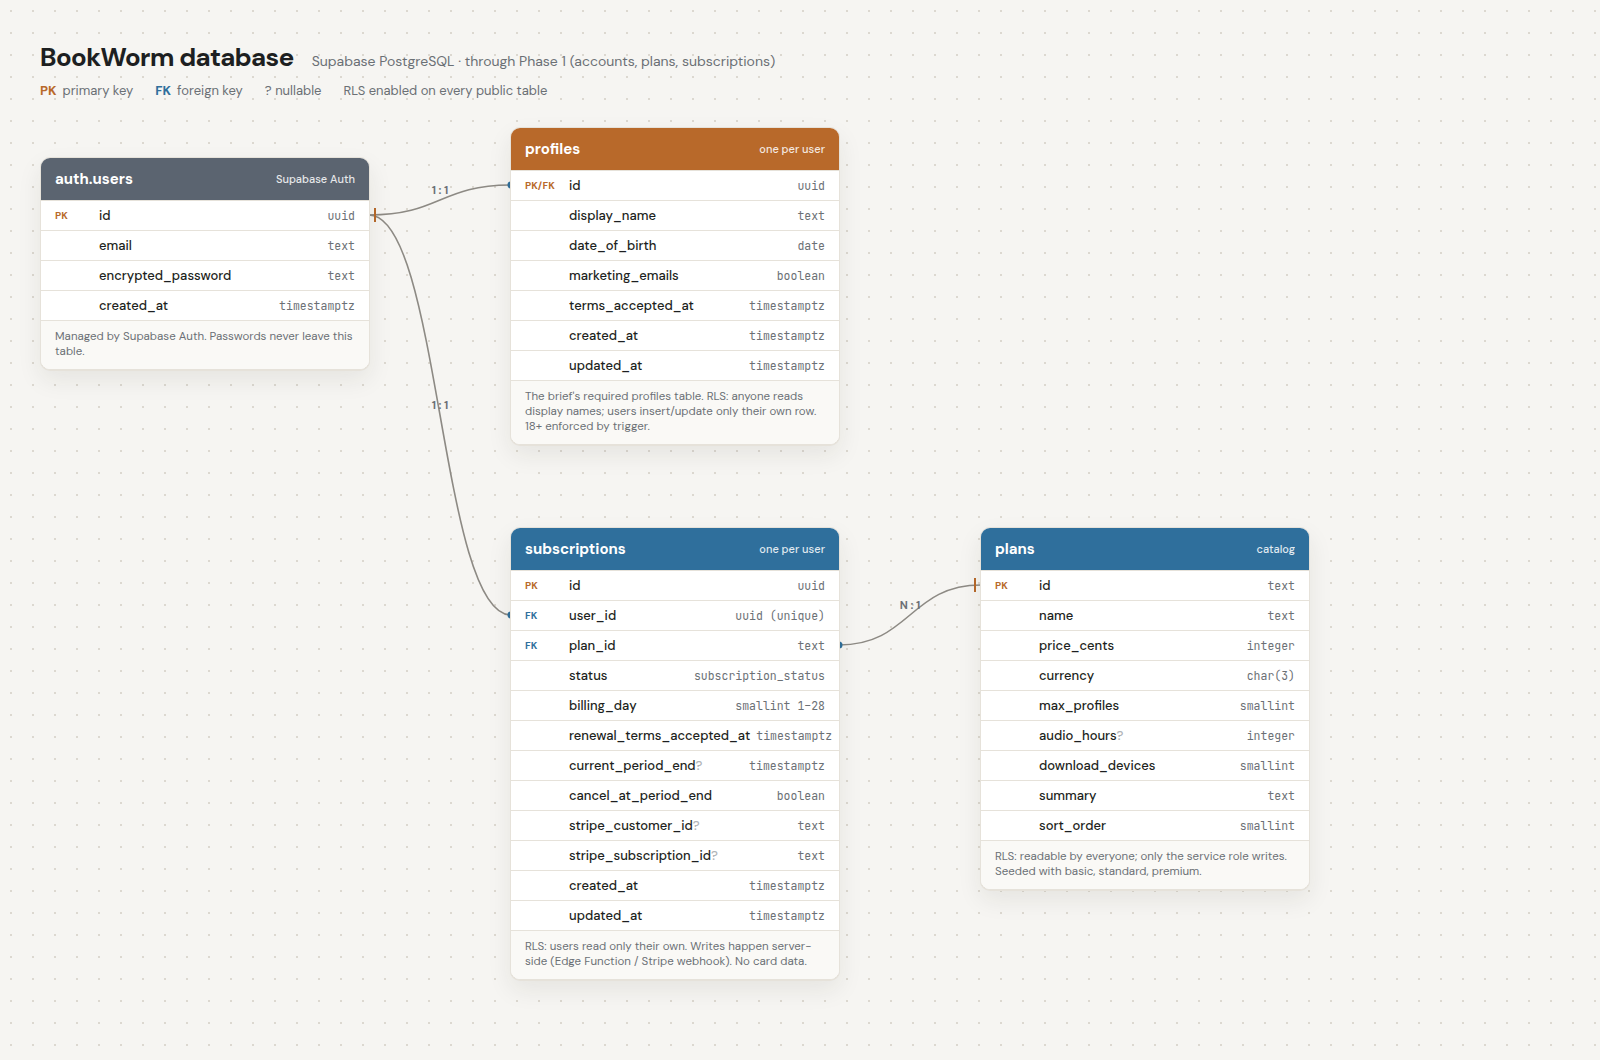
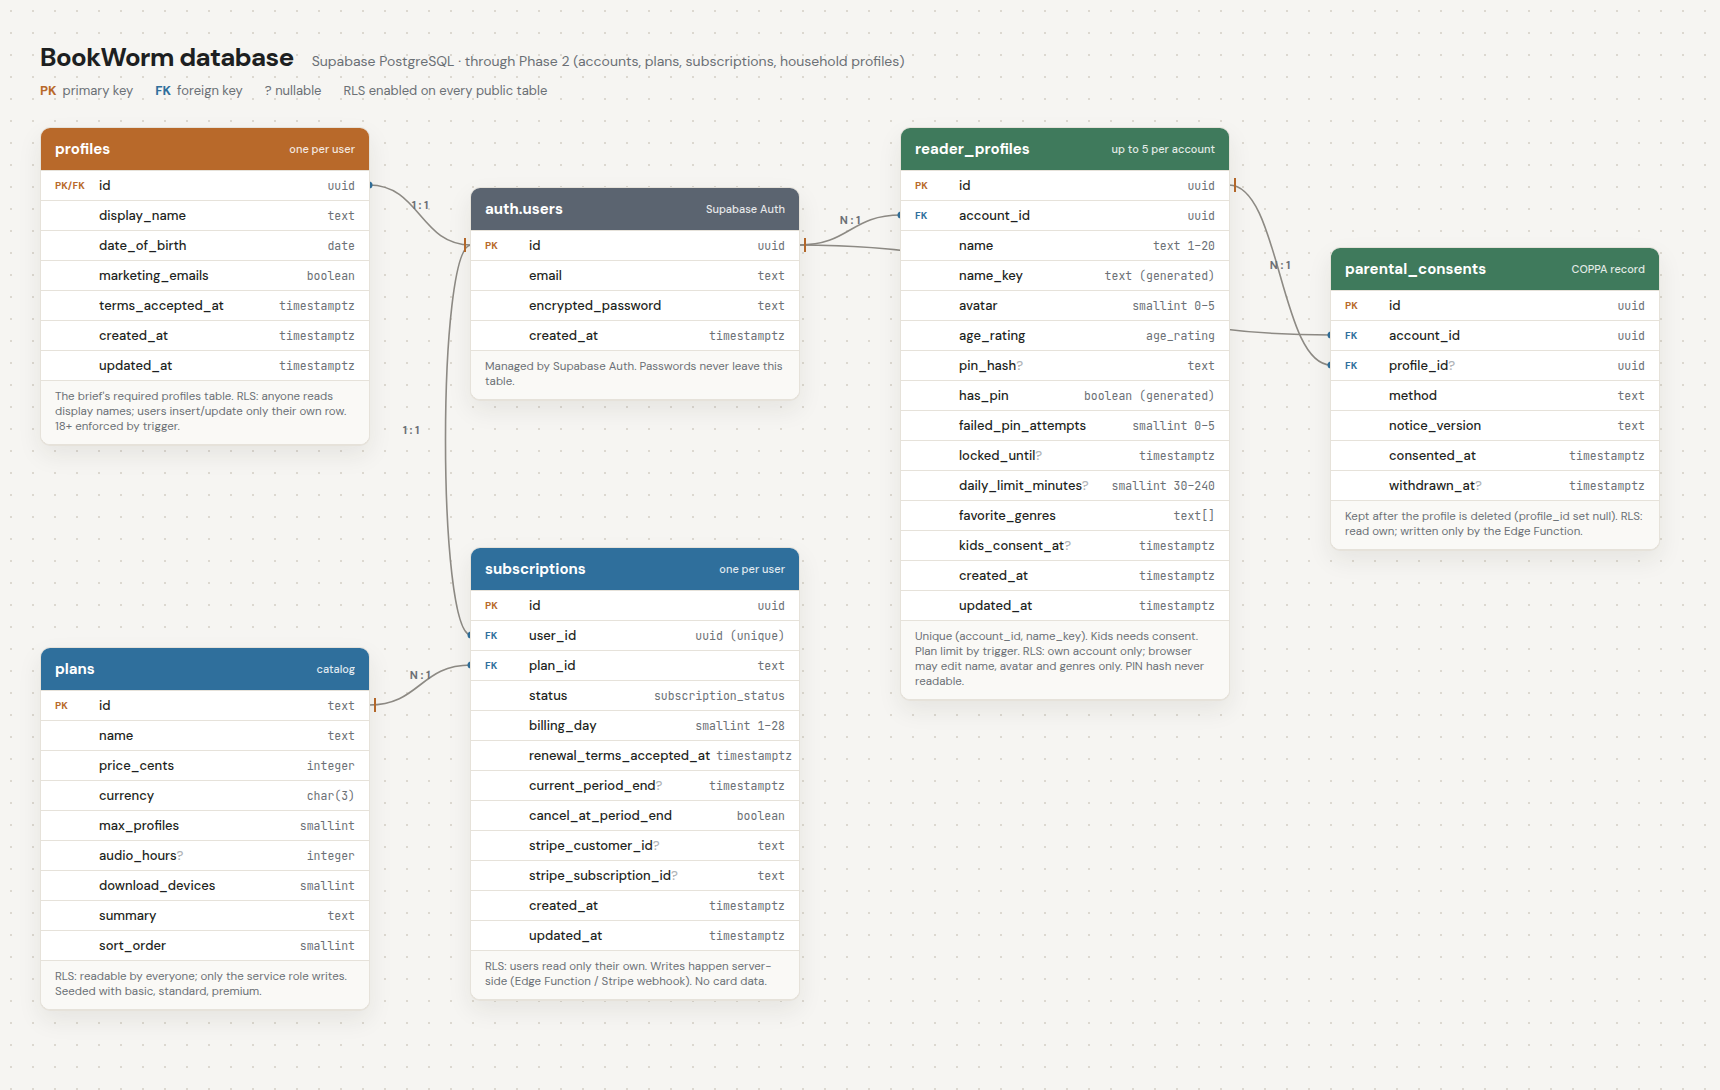
Schema and ERD: household reader profiles and parental consents
Adds reader_profiles (unique names per account, hashed PIN, lockout,
daily limit, favorite genres, Kids consent check, plan limit trigger)
and parental_consents (kept after a profile is deleted). Column grants
let the browser change only name, avatar and genres; protected fields
go through a server function.

diff --git a/docs/erd/erd.html b/docs/erd/erd.html
@@ -33,7 +33,7 @@
         background-image: radial-gradient(var(--dot) 1.2px, transparent 1.2px);
         background-size: 22px 22px;
       }
-      #canvas { position: relative; width: 1600px; padding: 40px; }
+      #canvas { position: relative; width: 1720px; padding: 40px; }
       header { display: flex; align-items: baseline; gap: 18px; margin-bottom: 8px; }
       header h1 { margin: 0; font-size: 26px; letter-spacing: -0.02em; }
       header p { margin: 0; color: var(--muted); font-size: 14px; }
@@ -87,14 +87,14 @@
 
     <script>
       // ---- Keep in sync with schema.sql -------------------------------------------------
-      const subtitle = "Supabase PostgreSQL · through Phase 1 (accounts, plans, subscriptions)";
+      const subtitle = "Supabase PostgreSQL · through Phase 2 (accounts, plans, subscriptions, household profiles)";
 
-      const colors = { auth: "#5b6470", account: "#b8692a", billing: "#2f6f9c" };
+      const colors = { auth: "#5b6470", account: "#b8692a", billing: "#2f6f9c", household: "#3f7a5c" };
 
       // x/y are positions on the canvas in px.
       const tables = [
         {
-          id: "auth.users", color: colors.auth, x: 0, y: 30, sub: "Supabase Auth",
+          id: "auth.users", color: colors.auth, x: 430, y: 60, sub: "Supabase Auth",
           cols: [
             ["pk", "id", "uuid"],
             ["", "email", "text"],
@@ -104,7 +104,7 @@
           note: "Managed by Supabase Auth. Passwords never leave this table.",
         },
         {
-          id: "profiles", color: colors.account, x: 470, y: 0, sub: "one per user",
+          id: "profiles", color: colors.account, x: 0, y: 0, sub: "one per user",
           cols: [
             ["pk fk", "id", "uuid"],
             ["", "display_name", "text"],
@@ -117,7 +117,7 @@
           note: "The brief's required profiles table. RLS: anyone reads display names; users insert/update only their own row. 18+ enforced by trigger.",
         },
         {
-          id: "subscriptions", color: colors.billing, x: 470, y: 400, sub: "one per user",
+          id: "subscriptions", color: colors.billing, x: 430, y: 420, sub: "one per user",
           cols: [
             ["pk", "id", "uuid"],
             ["fk", "user_id", "uuid (unique)"],
@@ -135,7 +135,7 @@
           note: "RLS: users read only their own. Writes happen server-side (Edge Function / Stripe webhook). No card data.",
         },
         {
-          id: "plans", color: colors.billing, x: 940, y: 400, sub: "catalog",
+          id: "plans", color: colors.billing, x: 0, y: 520, sub: "catalog",
           cols: [
             ["pk", "id", "text"],
             ["", "name", "text"],
@@ -149,6 +149,40 @@
           ],
           note: "RLS: readable by everyone; only the service role writes. Seeded with basic, standard, premium.",
         },
+        {
+          id: "reader_profiles", color: colors.household, x: 860, y: 0, sub: "up to 5 per account",
+          cols: [
+            ["pk", "id", "uuid"],
+            ["fk", "account_id", "uuid"],
+            ["", "name", "text 1–20"],
+            ["", "name_key", "text (generated)"],
+            ["", "avatar", "smallint 0–5"],
+            ["", "age_rating", "age_rating"],
+            ["", "pin_hash", "text", true],
+            ["", "has_pin", "boolean (generated)"],
+            ["", "failed_pin_attempts", "smallint 0–5"],
+            ["", "locked_until", "timestamptz", true],
+            ["", "daily_limit_minutes", "smallint 30–240", true],
+            ["", "favorite_genres", "text[]"],
+            ["", "kids_consent_at", "timestamptz", true],
+            ["", "created_at", "timestamptz"],
+            ["", "updated_at", "timestamptz"],
+          ],
+          note: "Unique (account_id, name_key). Kids needs consent. Plan limit by trigger. RLS: own account only; browser may edit name, avatar and genres only. PIN hash never readable.",
+        },
+        {
+          id: "parental_consents", color: colors.household, x: 1290, y: 120, sub: "COPPA record",
+          cols: [
+            ["pk", "id", "uuid"],
+            ["fk", "account_id", "uuid"],
+            ["fk", "profile_id", "uuid", true],
+            ["", "method", "text"],
+            ["", "notice_version", "text"],
+            ["", "consented_at", "timestamptz"],
+            ["", "withdrawn_at", "timestamptz", true],
+          ],
+          note: "Kept after the profile is deleted (profile_id set null). RLS: read own; written only by the Edge Function.",
+        },
       ];
 
       // [fromTable, fromColumn, toTable, toColumn, cardinality label]
@@ -156,6 +190,9 @@
         ["profiles", "id", "auth.users", "id", "1 : 1"],
         ["subscriptions", "user_id", "auth.users", "id", "1 : 1"],
         ["subscriptions", "plan_id", "plans", "id", "N : 1"],
+        ["reader_profiles", "account_id", "auth.users", "id", "N : 1"],
+        ["parental_consents", "profile_id", "reader_profiles", "id", "N : 1"],
+        ["parental_consents", "account_id", "auth.users", "id", "N : 1"],
       ];
       // -----------------------------------------------------------------------------------
 
